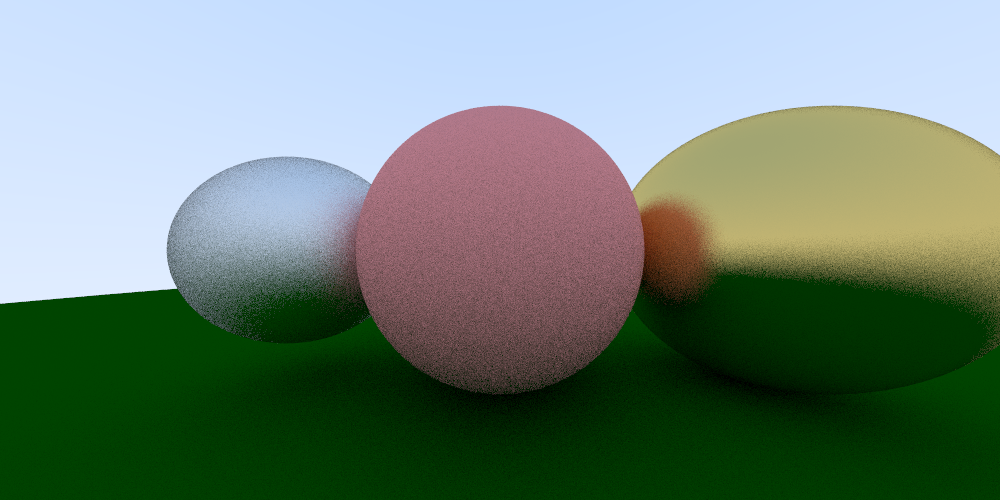
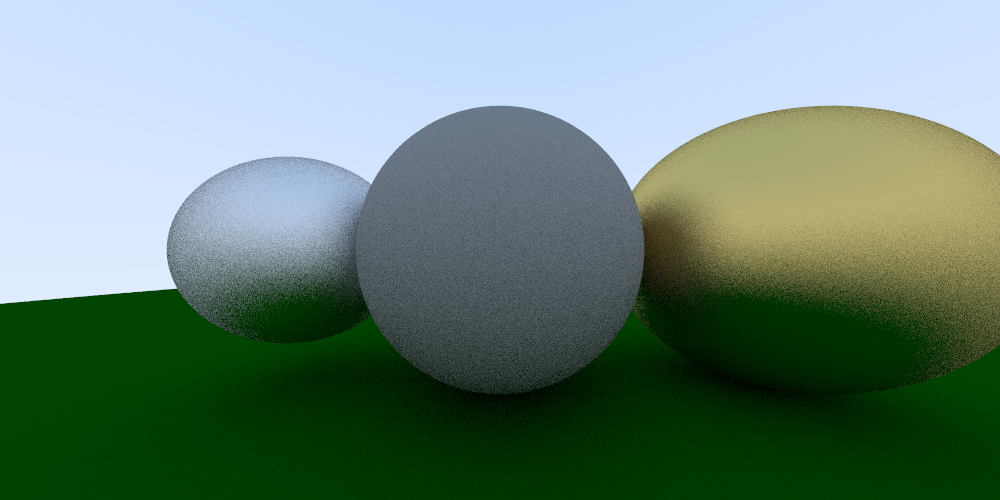
fix: metal scattering

diff --git a/STMRayTracer/STMRayTracer.cpp b/STMRayTracer/STMRayTracer.cpp
@@ -38,8 +38,8 @@ vec3 random_in_sphere() {
 vec3 color(const ray& r, Hitable* world, int depth) {
     hit_record rec;
     if (world->hit(r, 0.001, MAXFLOAT, rec)) {
-        ray scattered;
-        vec3 attenuation;
+        ray scattered; // 散射后的光线
+        vec3 attenuation; // 衰减
         if (depth < 50 && rec.mat_ptr->scatter(r, rec, attenuation, scattered)) {
             return attenuation * color(scattered, world, depth + 1);
         }
@@ -81,9 +81,9 @@ int main()
     vec3 origin(0.0, 0.0, 0.0);
 
     Hitable* list[4];
-    list[0] = new sphere(vec3(0, 0, -1), 0.5, new Lambertian(vec3(0.8, 0.3, 0.3)));
+    list[0] = new sphere(vec3(0, 0, -1), 0.5, new Lambertian(vec3(0.3, 0.3, 0.3)));
     list[1] = new sphere(vec3(0, -100.5, -1), 100, new Lambertian(vec3(0.0, 0.1, 0.0)));
-    list[2] = new sphere(vec3(1, 0, -1), 0.5, new Metal(vec3(0.8, 0.6, 0.2), 0.3));
+    list[2] = new sphere(vec3(1, 0, -1), 0.5, new Metal(vec3(0.8, 0.6, 0.2), 0.6));
     list[3] = new sphere(vec3(-0.75, 0, -1), 0.35, new Metal(vec3(0.8, 0.8, 0.8), 0.9));
     Hitable* world = new HitableList(list, 4);
 
